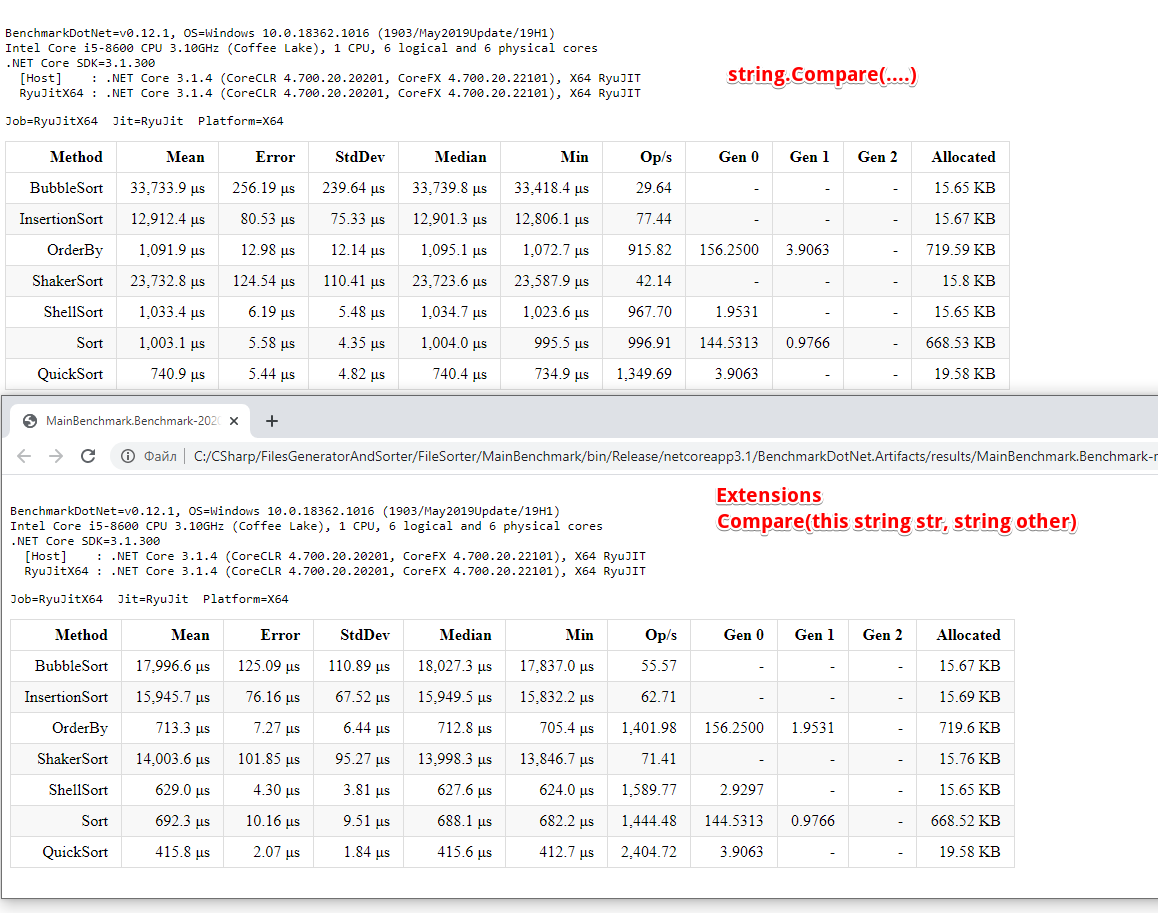
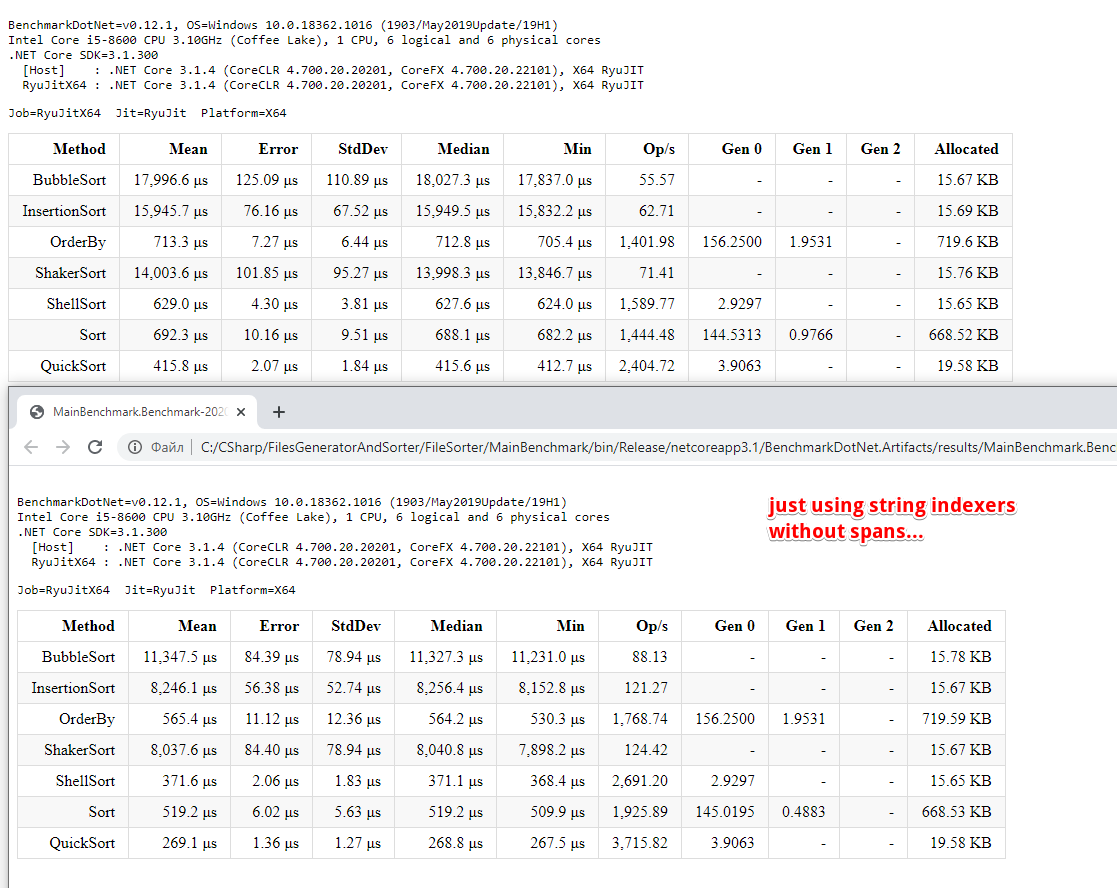
optimized

Changed region(s): [[0.0, 0.0, 1.0, 1.0], [0.6088, 0.0608, 0.7914, 0.0912]]

diff --git a/FileSorter/FileSorter/Implementations/Extensions.cs b/FileSorter/FileSorter/Implementations/Extensions.cs
@@ -63,6 +63,8 @@ namespace FileSorter.Implementations
 
         // Warning!!! Only for strings like $"{num}. {some string}"
         // Faster than sourceLine.Split(". ", StringSplitOptions.RemoveEmptyEntries) etc
+        // do not use string.Create for spans (2-times slower) [link below]
+        // https://www.stevejgordon.co.uk/creating-strings-with-no-allocation-overhead-using-string-create-csharp
         public static SeparatedLine GetSeparatedLine(this string sourceLine)
         {
             var strLength = sourceLine.Length;
@@ -96,15 +98,9 @@ namespace FileSorter.Implementations
             var strLen = str.Length;
             var otherLen = other.Length;
 
-            Span<char> stackStr = stackalloc char[strLen];
-            for (var i = 0; i < strLen; i++) stackStr[i] = str[i];
-
-            Span<char> stackOther = stackalloc char[otherLen];
-            for (var j = 0; j < otherLen; j++) stackOther[j] = other[j];
-
             for (var k = 0; k < Math.Min(strLen, otherLen); k++)
-                if (stackStr[k] != stackOther[k])
-                    return stackStr[k] > stackOther[k] ? 1 : -1;
+                if (str[k] != other[k])
+                    return str[k] > other[k] ? 1 : -1;
 
             // todo test ternary operator
             if (strLen == otherLen)
